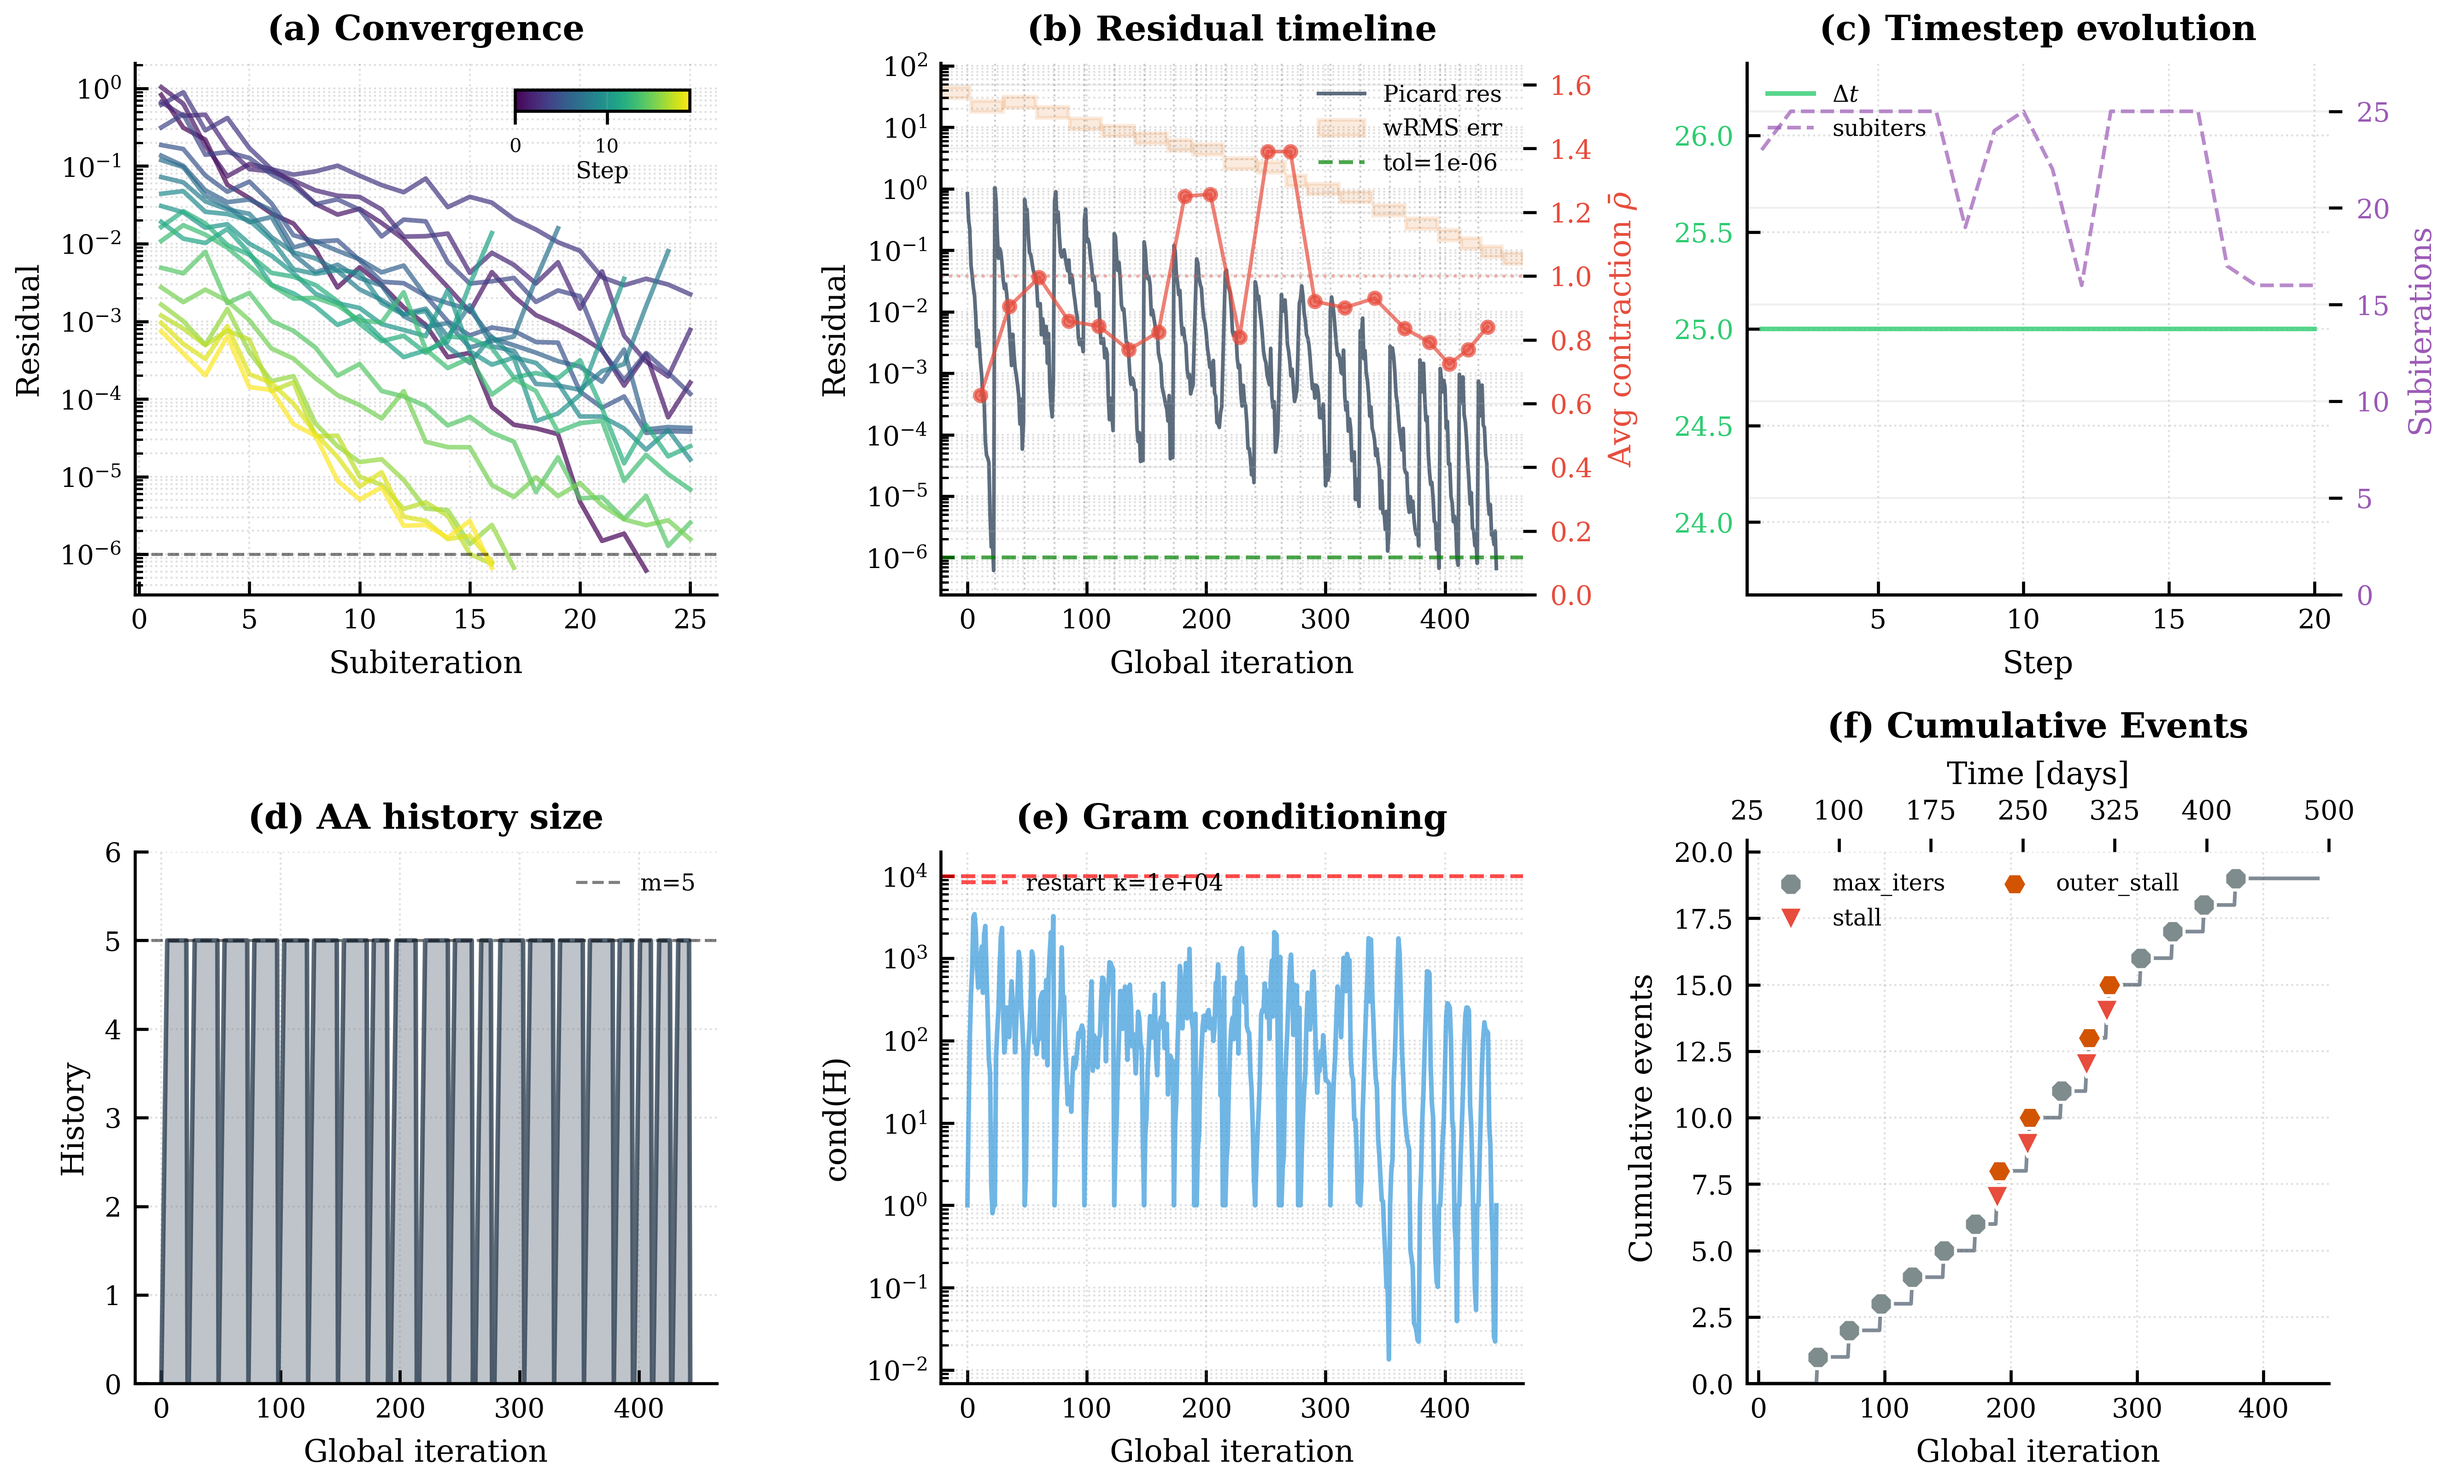
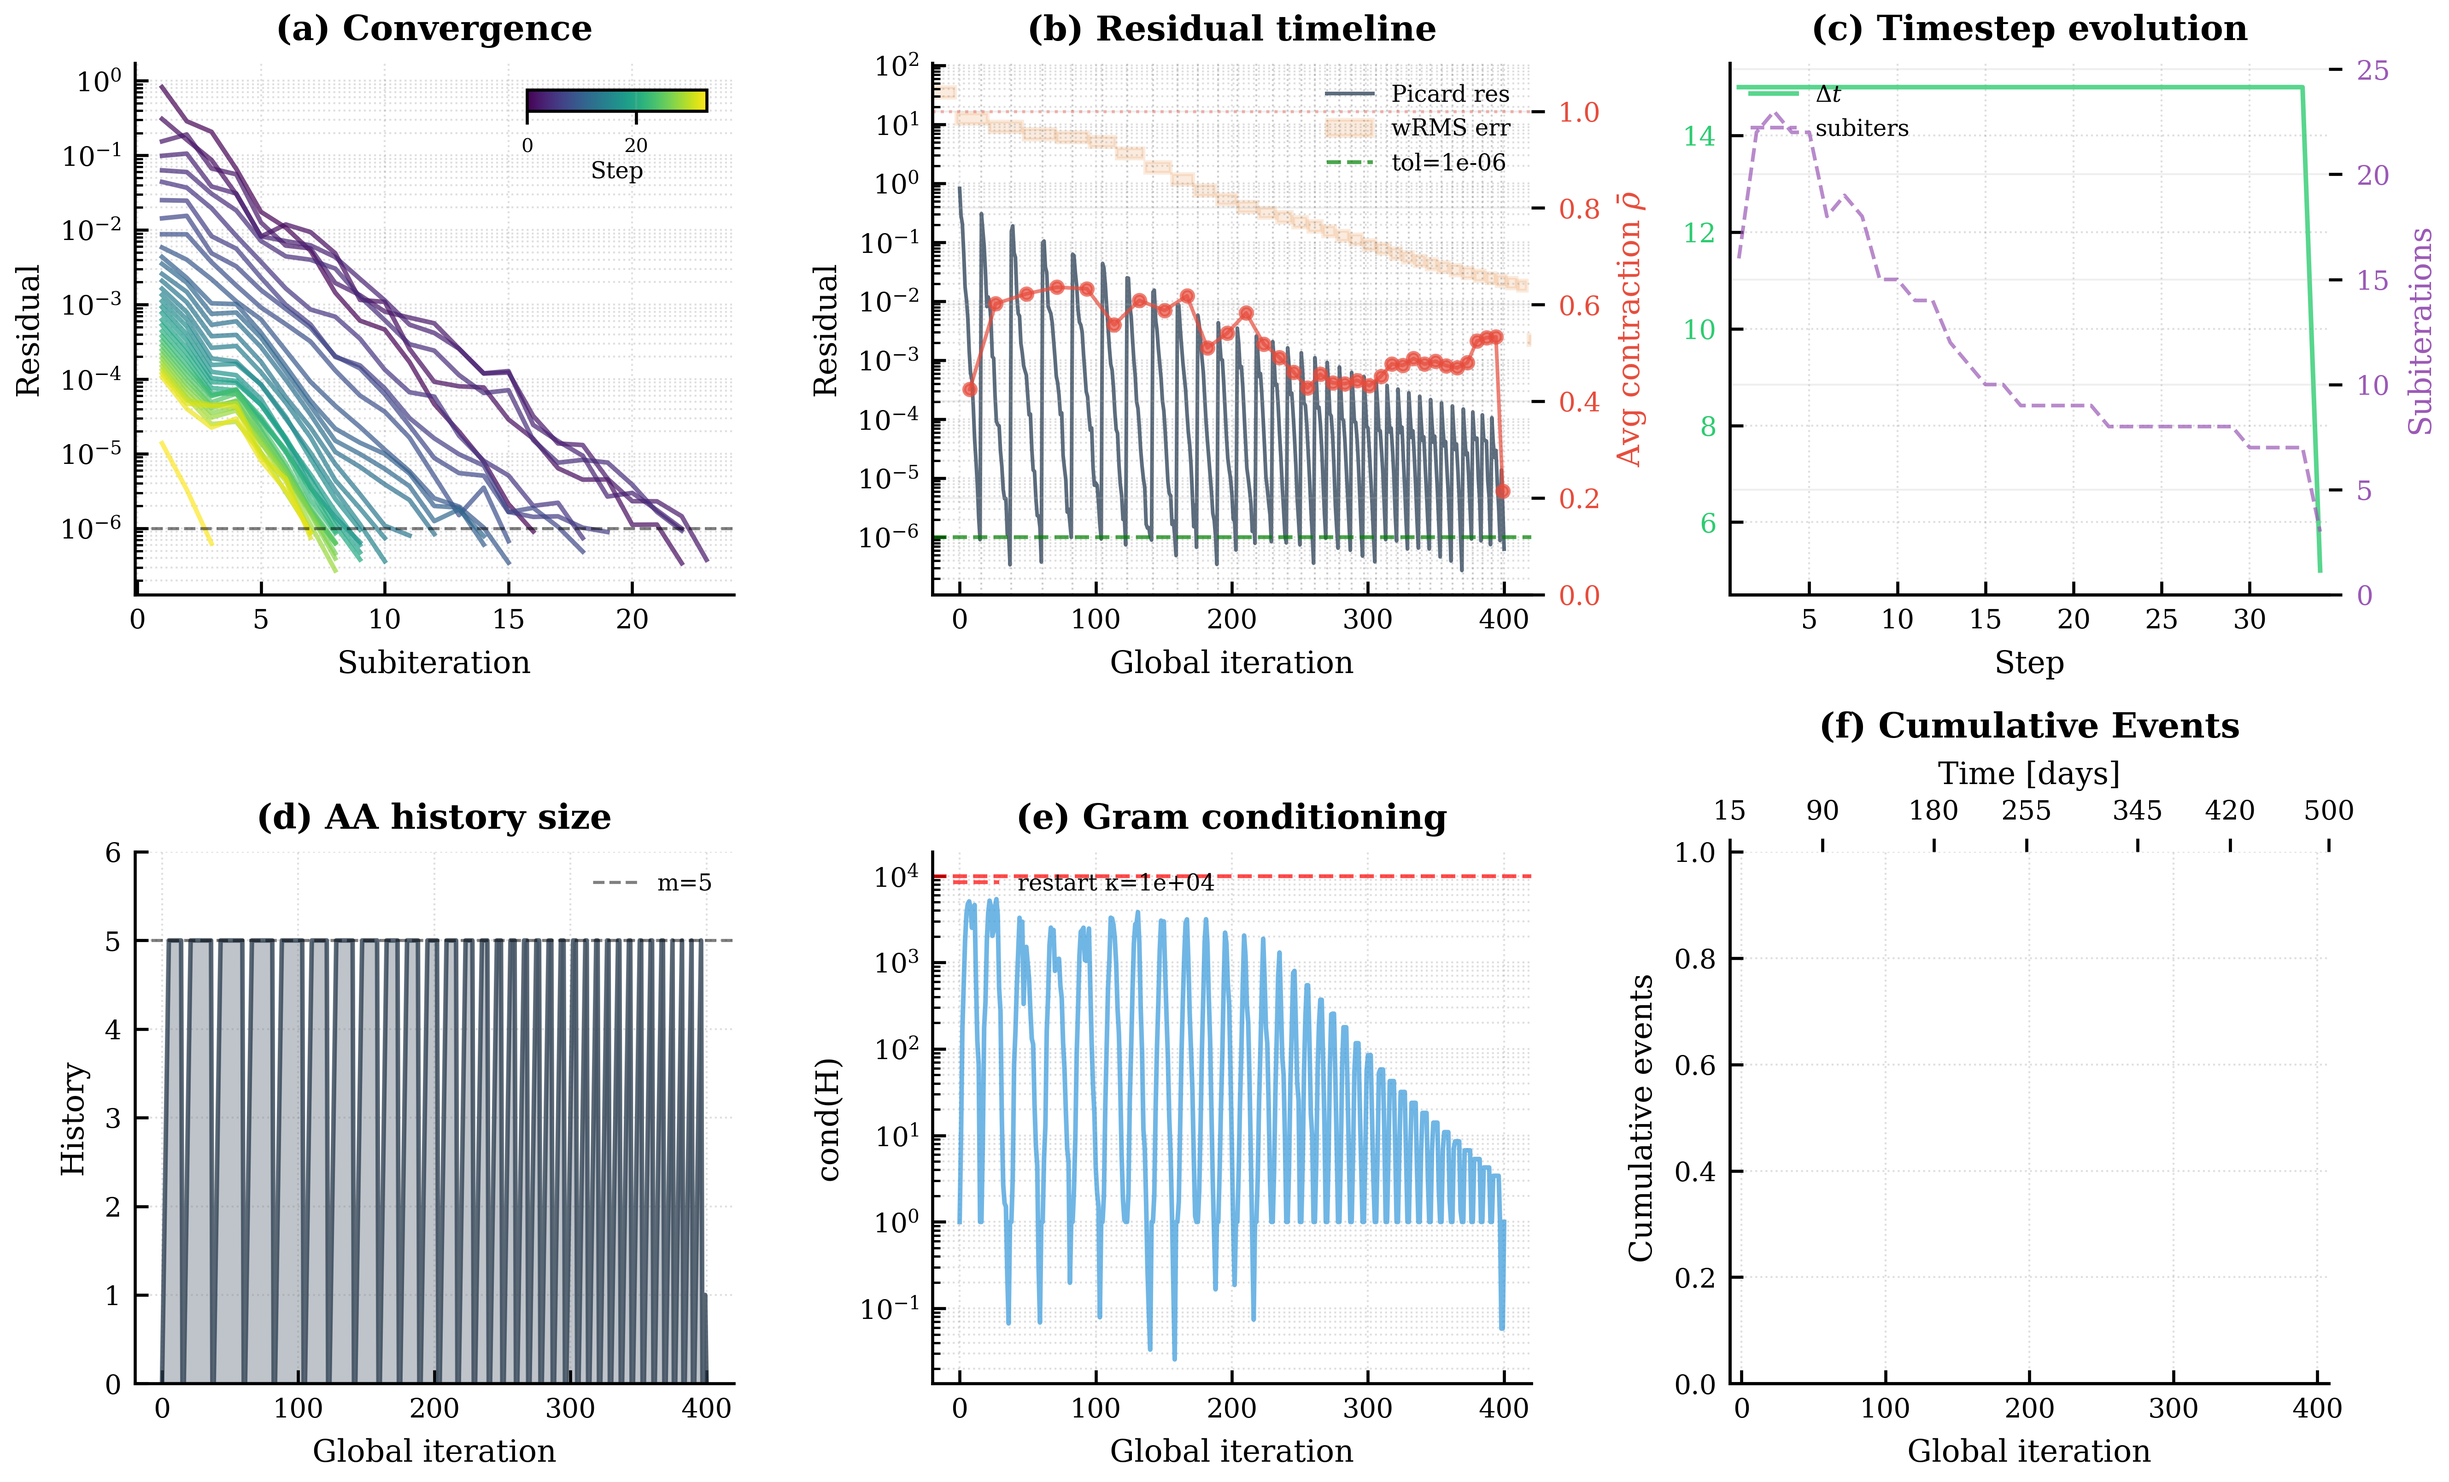
refactor: Update diagnostic figures and improve parameter settings for stability analysis

diff --git a/analysis/anderson_analysis.py b/analysis/anderson_analysis.py
@@ -391,7 +391,7 @@ def create_diagnostic_figure(
       (a) Heatmap: Iterations as f(m, β) - shows interaction and optimal region
       (b) Box plots: Marginal effect of each parameter on iterations
       (c) Heatmap: Contraction rate as f(m, β) - convergence quality
-      (d) Stability: Condition number vs history size with λ variations
+      (d) Stability: Restarts vs mixing β for different history sizes m
     
     Args:
         df: DataFrame with Anderson metrics.
@@ -411,9 +411,6 @@ def create_diagnostic_figure(
     
     # Subset for heatmaps (fix lambda at optimal)
     df_lam_opt = df[df["lam"] == optimal_lam]
-    
-    # Get restart_on_cond from metadata (default 1e4)
-    restart_on_cond = float(metadata.get("restart_on_cond", 1e4))
     
     # Create figure with 1×4 layout
     # Using 10.0 x 2.5 to fit 4 plots in a row nicely
@@ -467,19 +464,18 @@ def create_diagnostic_figure(
     )
     
     # =========================================================================
-    # Panel (d): Line plot - Condition number vs m for different λ
+    # Panel (d): Line plot - Restarts vs beta for different m
     # =========================================================================
     ax = axes[3]
-    _plot_condition_vs_m(
-        ax, df,
-        m_vals=m_vals, lam_vals=lam_vals,
-        restart_on_cond=restart_on_cond,
+    _plot_restarts_vs_beta(
+        ax, df_lam_opt,
+        beta_vals=beta_vals, m_vals=m_vals,
     )
     setup_axis_style(
         ax,
-        xlabel=r"History $m$",
-        ylabel=r"Condition $\kappa(H)$",
-        title="(d) Numerical stability",
+        xlabel=r"Mixing $\beta$",
+        ylabel="Restarts",
+        title="(d) Stability (Restarts)",
         grid=True,
     )
     
@@ -658,58 +654,43 @@ def _plot_marginal_boxplots(
     ax2.spines["right"].set_visible(False)
 
 
-def _plot_condition_vs_m(
+def _plot_restarts_vs_beta(
     ax: plt.Axes,
     df: pd.DataFrame,
+    beta_vals: list,
     m_vals: list,
-    lam_vals: list,
-    restart_on_cond: float = 1e4,
 ) -> None:
-    """Plot condition number vs history size for different regularizations.
-    
-    Shows how regularization λ controls conditioning as m increases.
+    """Plot number of restarts vs mixing parameter beta for different history sizes m.
     
     Args:
         ax: Matplotlib axis.
-        df: DataFrame with metrics.
+        df: DataFrame with metrics (filtered for optimal lambda).
+        beta_vals: Mixing parameter values.
         m_vals: History size values.
-        lam_vals: Regularization values.
-        restart_on_cond: Threshold for Anderson restart (from config).
     """
-    from matplotlib.colors import LogNorm
-    import matplotlib.cm as cm
+    from matplotlib.colors import Normalize
     
-    # Modern sequential colormap
-    norm = LogNorm(vmin=min(lam_vals), vmax=max(lam_vals))
+    # Color map for m values
     cmap = plt.get_cmap("viridis")
+    norm = Normalize(vmin=min(m_vals), vmax=max(m_vals))
     
-    for lam in lam_vals:
-        subset = df[df["lam"] == lam]
+    for m in m_vals:
+        subset = df[df["m"] == m]
+        if subset.empty:
+            continue
+            
+        # Sort by beta
+        subset = subset.sort_values("beta")
         
-        # Aggregate by m
-        agg = subset.groupby("m")["cond_median"].agg(["mean", "std"]).reset_index()
-        
-        color = cmap(norm(lam))
-        ax.semilogy(
-            agg["m"], agg["mean"],
+        color = cmap(norm(m))
+        ax.plot(
+            subset["beta"], subset["n_restarts"],
             marker="o", color=color, linewidth=PLOT_LINEWIDTH,
-            markersize=PLOT_MARKERSIZE + 1, label=f"$\\lambda={lam:.0e}$",
+            markersize=PLOT_MARKERSIZE, label=f"$m={m}$",
         )
     
     # Add legend
-    ax.legend(fontsize=6, loc="upper left", frameon=False)
-    
-    # Add restart threshold line
-    ax.axhline(
-        y=restart_on_cond, color="#C44E52", linestyle="--",
-        linewidth=1.2, alpha=0.8,
-    )
-    # Label the threshold
-    ax.text(
-        m_vals[0], restart_on_cond * 1.2,
-        r"$\kappa_{\mathrm{restart}}$",
-        fontsize=7, color="#C44E52", va="bottom",
-    )
+    ax.legend(fontsize=6, loc="upper left", frameon=False, title="History $m$")
 
 
 # =============================================================================

diff --git a/simulation/utils.py b/simulation/utils.py
@@ -321,10 +321,11 @@ def compute_mean_element_length(m: mesh.Mesh) -> float:
     # Create DG0 space for cell-wise quantities
     V_dg = fem.functionspace(m, ("DG", 0))
 
-    # Expression for cell volume
-    vol_expr = fem.Expression(ufl.CellVolume(m), V_dg.element.interpolation_points)
-    vol_fn = fem.Function(V_dg)
-    vol_fn.interpolate(vol_expr)
+    # Compute cell volumes by assembling 1.0 * dx
+    # This avoids ufl.CellVolume which can fail on some meshes/versions
+    v = ufl.TestFunction(V_dg)
+    L = fem.form(fem.Constant(m, default_scalar_type(1.0)) * v * ufl.dx)
+    b = fem.assemble_vector(L)
 
     # Get owned cell volumes
     # DG0 dofs correspond one-to-one with cells (usually).
@@ -332,7 +333,7 @@ def compute_mean_element_length(m: mesh.Mesh) -> float:
     num_owned = V_dg.dofmap.index_map.size_local
 
     # For DG0, block size is 1.
-    local_volumes = vol_fn.x.array[: num_owned * map_bs]
+    local_volumes = b.array[: num_owned * map_bs]
 
     # Compute local sum of lengths (h ~ V^(1/3))
     local_h_sum = np.sum(np.cbrt(local_volumes))

diff --git a/analysis/anderson_diagnostic_plot.py b/analysis/anderson_diagnostic_plot.py
@@ -46,7 +46,7 @@ from analysis.plot_utils import (
 # Configuration
 # =============================================================================
 
-DEFAULT_RUN_DIR = Path(".stiff_results_box/")
+DEFAULT_RUN_DIR = Path(".stiff_results_femur/")
 OUTPUT_FILE = Path("manuscript/images/anderson_diagnostic.png")
 
 # Colors for events
